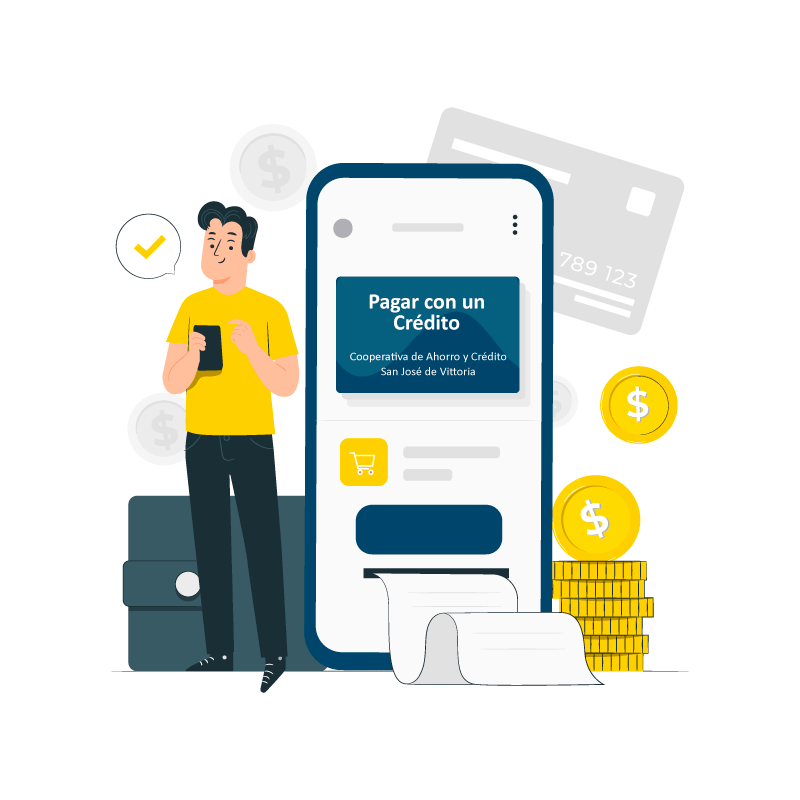
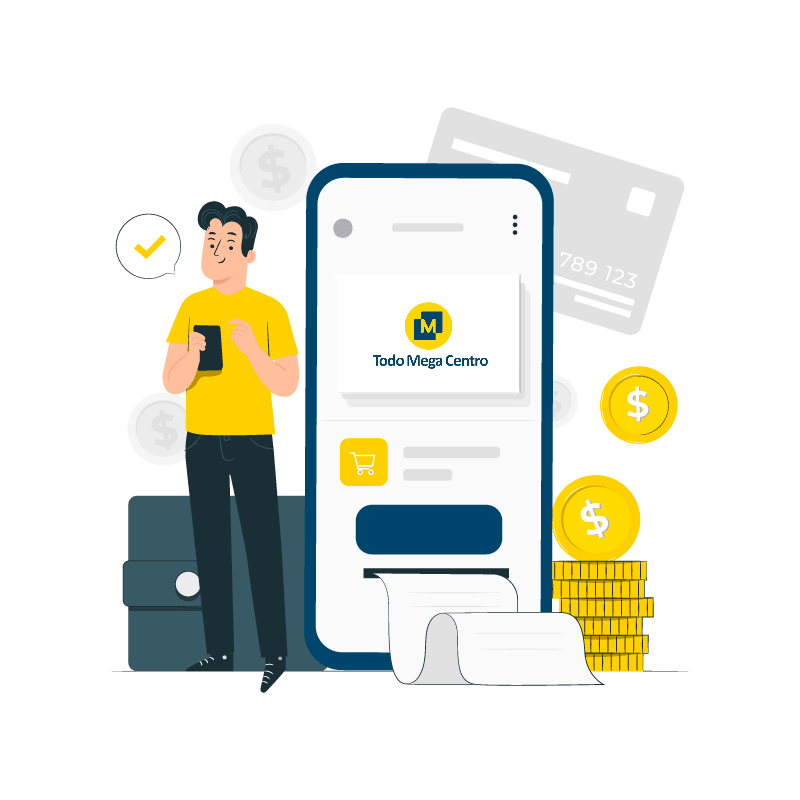
feat: modify login.component.html

Changed region(s): [[0.4062, 0.3438, 0.6562, 0.5]]

diff --git a/src/app/layout/components/navbar/navbar.component.html b/src/app/layout/components/navbar/navbar.component.html
@@ -55,15 +55,15 @@
 
         <li ngbDropdown class="nav-item dropdown-user">
             <a class="nav-link dropdown-toggle dropdown-user-link" id="dropdown-user" ngbDropdownToggle id="navbarUserDropdown" aria-haspopup="true" aria-expanded="false" *ngIf="grpCreditUser">
-                <div class="user-nav d-sm-flex d-none">
-                    <span class="user-name font-weight-bolder">{{grpCreditUser.persona.nombres}}
-            {{grpCreditUser.persona.apellidos}}</span><span class="user-status" *ngFor="let rol of grpCreditUser.roles">{{rol.nombre}}</span>
-                </div>
+<!--                <div class="user-nav d-sm-flex d-none">-->
+<!--                    <span class="user-name font-weight-bolder">{{grpCreditUser.persona.nombres}}-->
+<!--            {{grpCreditUser.persona.apellidos}}</span><span class="user-status" *ngFor="let rol of grpCreditUser.roles">{{rol.nombre}}</span>-->
+<!--                </div>-->
                 <span class="avatar"><img class="round" src="{{grpCreditUser.persona.imagen}}" alt="avatar" height="40"
             width="40" /><span class="avatar-status-online"></span></span>
             </a>
             <div ngbDropdownMenu aria-labelledby="navbarUserDropdown" class="dropdown-menu dropdown-menu-right">
-                <a ngbDropdownItem [routerLink]="['/grp/perfil']"><span [data-feather]="'user'" [class]="'mr-50'"></span> Perfil</a>
+<!--                <a ngbDropdownItem [routerLink]="['/grp/perfil']"><span [data-feather]="'user'" [class]="'mr-50'"></span> Perfil</a>-->
 
                 <div class="dropdown-divider"></div>
                 <a ngbDropdownItem (click)="logout()"><span [data-feather]="'power'" [class]="'mr-50'"></span> Cerrar sesión</a>

diff --git a/src/app/main/center/login/login.component.html b/src/app/main/center/login/login.component.html
@@ -3,7 +3,7 @@
     <!-- Brand logo-->
     <a class="brand-logo" href="javascript:void(0);">
       <img src="{{ coreConfig.app.appLogoImage }}" alt="brand-logo" width="200" />
-      <img src="../../../../assets/images/logo/Logo_SAN_JOSE.png" alt="brand-logo" width="200" />
+      <img src="../../../../assets/images/logo/todomegacentro.png" alt="brand-logo" width="200" />
     </a>
     <!-- /Brand logo-->
     <!-- Left Text-->
@@ -44,11 +44,6 @@
             </div>
           </div>
           <div class="form-group">
-            <div class="d-flex justify-content-between">
-              <label for="login-password">Contraseña</label><a class="text-primary"
-                routerLink="/grp/recuperarPass"><small>
-                  ¿Olvidaste tu contraseña?</small></a>
-            </div>
             <div class="input-group input-group-merge form-password-toggle">
               <input [type]="passwordTextType ? 'text' : 'password'" formControlName="password"
                 class="form-control form-control-merge"

diff --git a/src/app/main/personas/vistas/principal/principal.component.html b/src/app/main/personas/vistas/principal/principal.component.html
@@ -2,7 +2,15 @@
     <!-- users list start -->
     <div class="content-body">
         <div class="text-center container">
-            <a href="https://bigpuntos.com/">Visita esta pagina</a>
+            <div class="">
+                <img src="assets/images/logo/todomegacentro.png" >
+            </div>
+            <div *ngIf="usuario?.perfil === 'Vendedor' ; else administrador">
+                <a class="btn btn-primary mt-2" href="https://todomegacentro.com/">Ingresa a la pagina</a>
+            </div>
+            <ng-template #administrador>
+                <a class="btn btn-primary mt-2" href="https://todomegacentro.com/admin">Ingresa a la pagina</a>
+            </ng-template>
         </div>
     </div>
     <!-- users list ends -->

diff --git a/src/app/layout/components/menu/vertical-menu/vertical-menu.component.html b/src/app/layout/components/menu/vertical-menu/vertical-menu.component.html
@@ -5,7 +5,7 @@
       <!-- App Branding -->
       <a class="navbar-brand" [routerLink]="['/']">
         <img width="55%" src="{{ coreConfig.app.appLogoImage }}" alt="brand-logo" />
-        <img width="55%" src="../../../../assets/images/logo/Logo_SAN_JOSE.png" alt="brand-logo" />
+        <img width="35%" src="../../../../assets/images/logo/todomegacentro.png" alt="brand-logo" />
       </a>
     </li>
 

diff --git a/src/app/auth/models/user.ts b/src/app/auth/models/user.ts
@@ -12,4 +12,5 @@ export class User {
   token?: string;
   estado: string;
   tokenExpiracion: string;
+  perfil?: string;
 }
